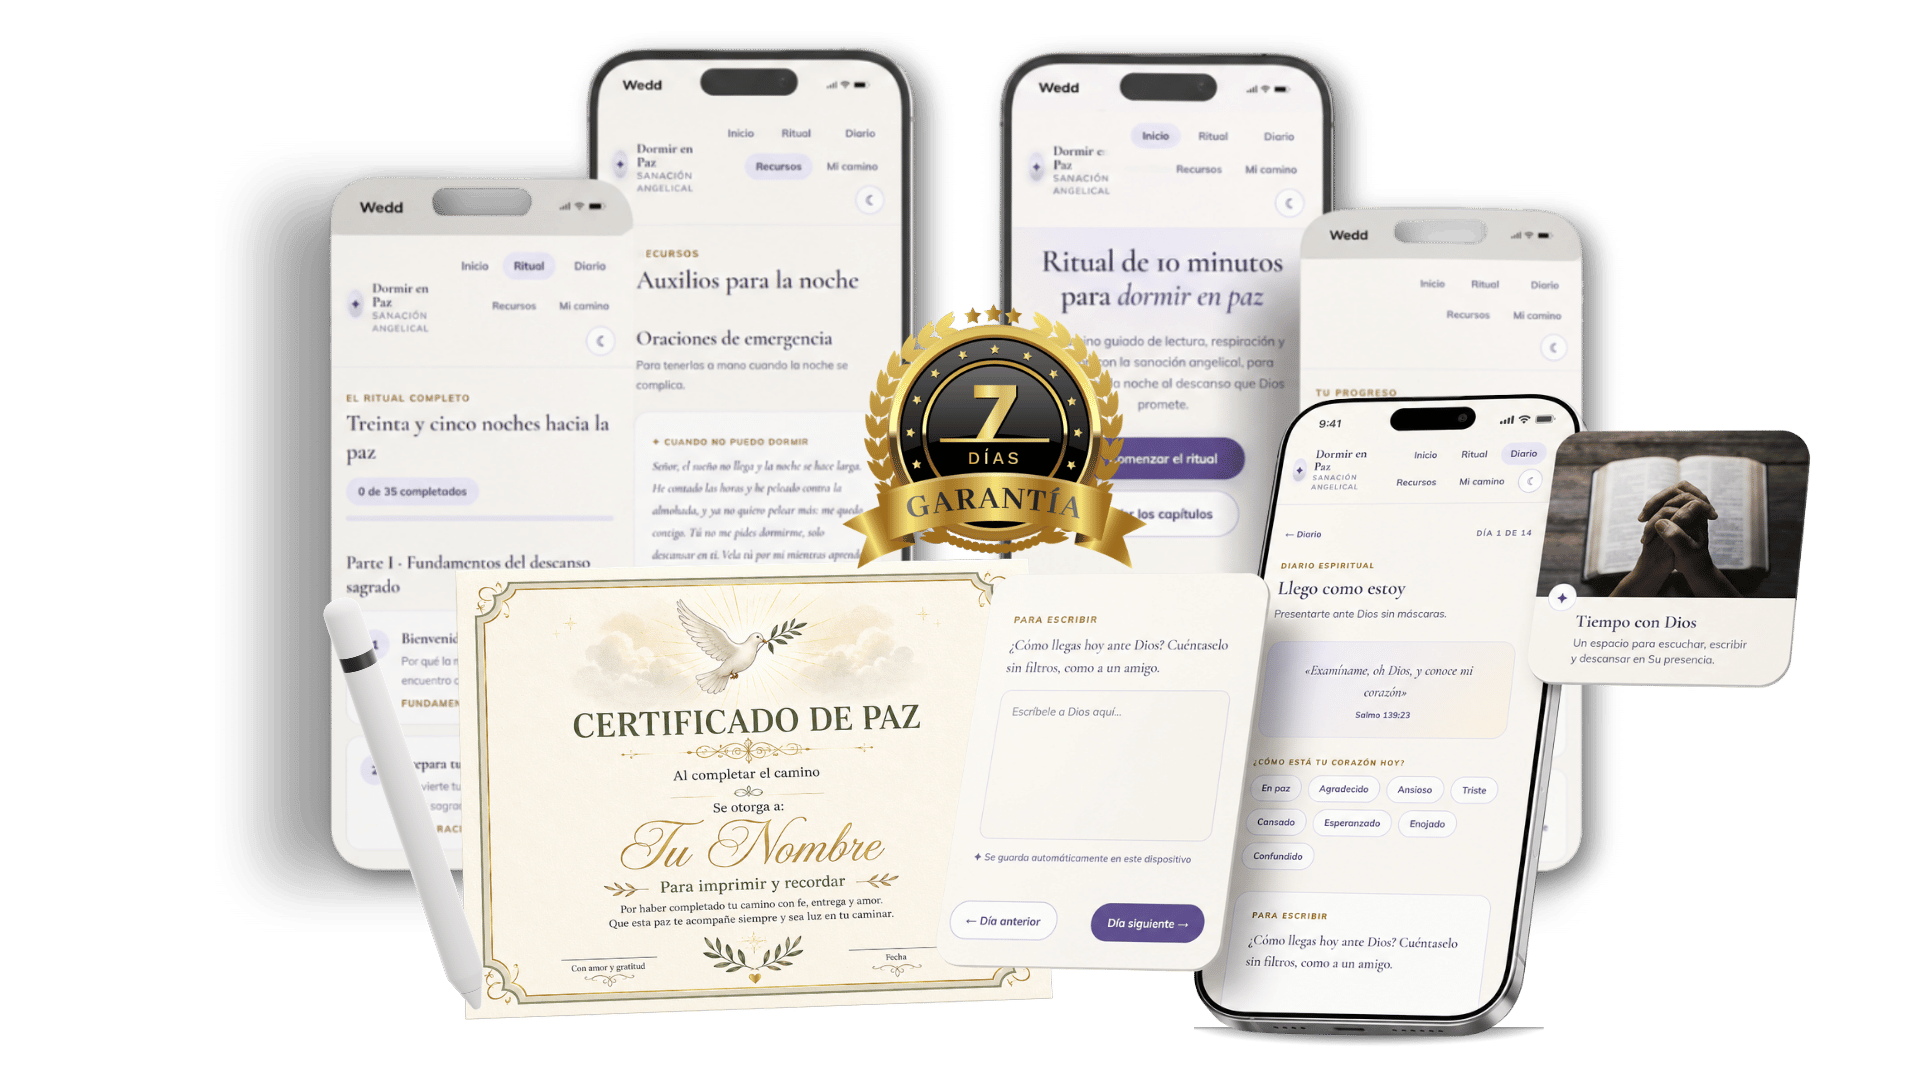
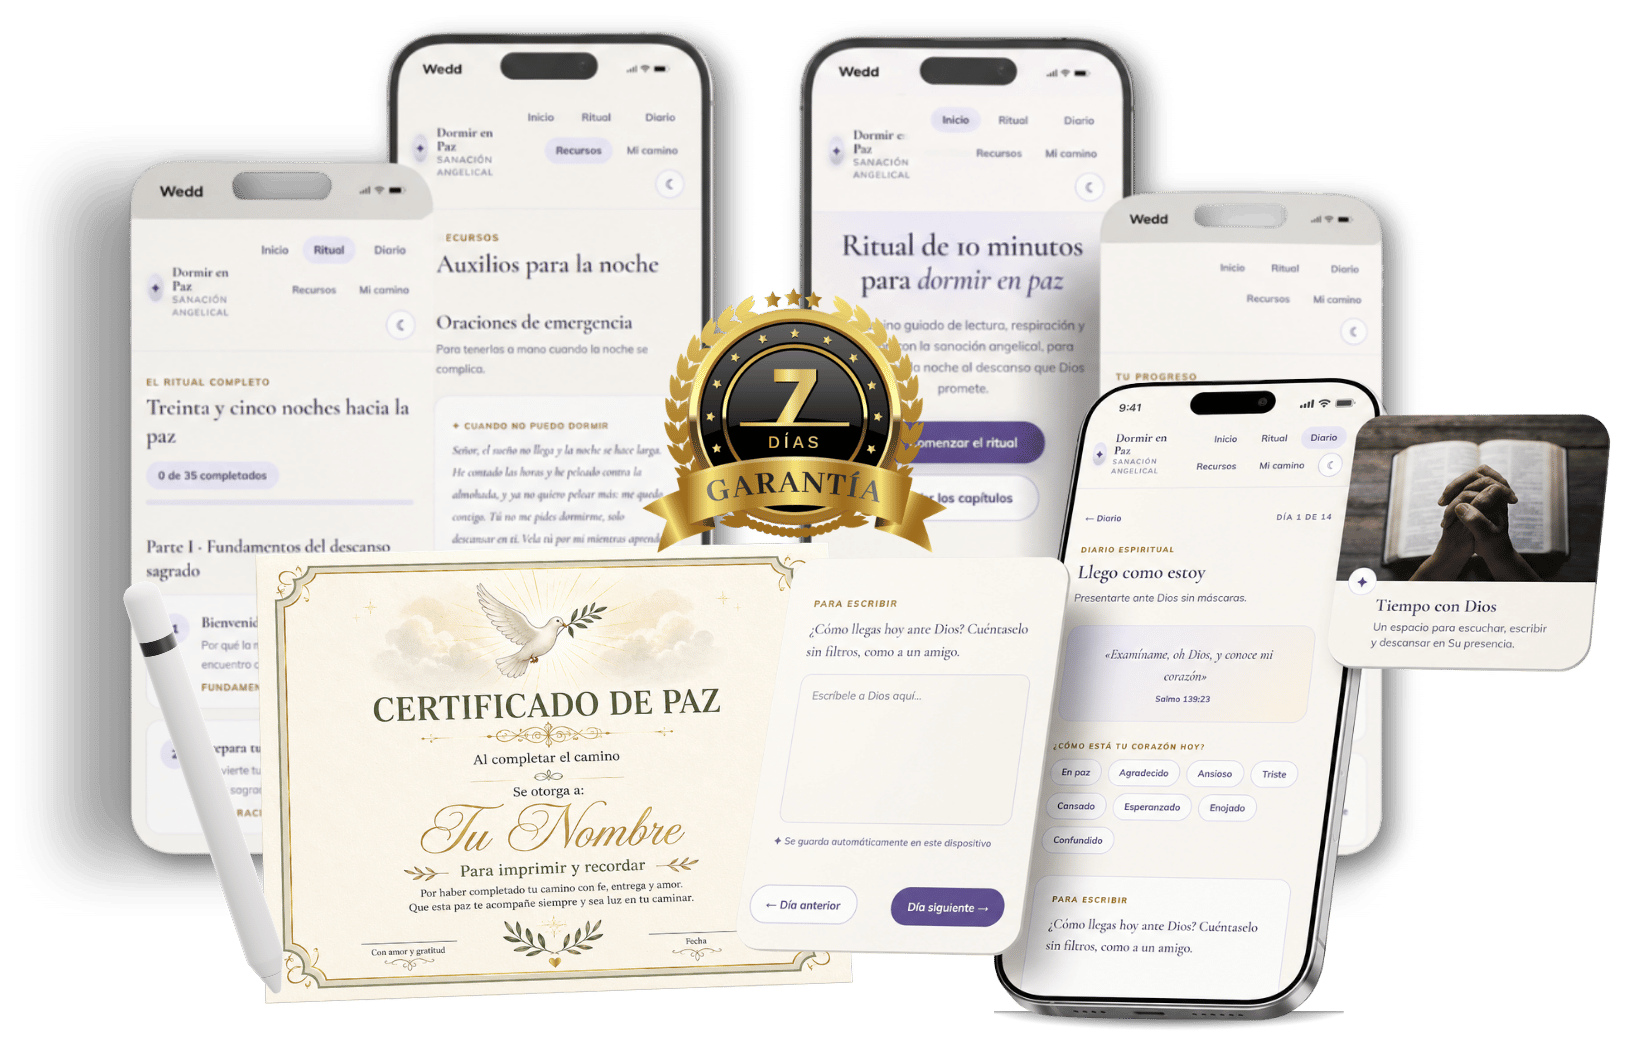
new

Changed region(s): [[0.0307, 0.0306, 1.0, 1.0]]

diff --git a/index.html b/index.html
@@ -29,7 +29,7 @@
       <div style="display: inline-flex; align-items: center; gap: 8px; padding: 8px 18px; border-radius: 999px; background: #FFFFFF; border: 1px solid oklch(0.9 0.03 295); font-size: 13px; font-weight: 800; letter-spacing: 0.1em; text-transform: uppercase; color: oklch(0.5 0.11 295);">✦ Precio de lanzamiento · solo por 7 días</div>
       <h1 style="margin: 0; font-family: 'Cormorant Garamond', serif; font-weight: 600; font-size: clamp(36px, 8vw, 56px); line-height: 1.1;">¿Cuántas noches llevas sin <em style="color: oklch(0.5 0.11 295);">dormir en paz</em>?</h1>
       <p style="margin: 0; max-width: 520px; font-size: 19px; line-height: 1.65; color: #55506E;">Un ritual guiado de solo <strong>10 minutos cada noche</strong> para entregarle a Dios tus preocupaciones y descansar bajo el cuidado de sus ángeles. Sin técnicas complicadas. Sin experiencia previa.</p>
-      <img src="images/mockup-2-pantallas.png" alt="Vista previa del eBook Dormir en Paz en el celular" style="width: 100%; max-width: 560px; height: auto; display: block;" />
+      <img src="images/mockup-2-pantallas.png" alt="Vista previa del eBook Dormir en Paz en el celular" style="width: 100%; height: auto; display: block;" />
       <div style="width: min(340px, 82vw); border-radius: 22px; overflow: hidden; box-shadow: 0 20px 50px oklch(0.6 0.08 295 / 0.35); border: 1px solid oklch(0.9 0.03 295);">
         <div style="background: linear-gradient(160deg, oklch(0.35 0.06 295), oklch(0.25 0.05 295)); padding: 38px 26px; display: flex; flex-direction: column; align-items: center; gap: 14px; text-align: center;">
           <span style="font-size: 26px; color: oklch(0.8 0.08 85);">✦</span>
@@ -80,7 +80,7 @@
 
   <!-- MOCKUP 4 PANTALLAS -->
   <section data-screen-label="Mockup incluye" style="max-width: 660px; margin: 0 auto; padding: 10px 22px 30px;">
-    <img src="images/mockup-4-pantallas-garantia.png" alt="Ritual, diario, certificado de paz y garantía de 7 días" style="width: 100%; height: auto; display: block;" />
+    <img src="images/mockup-4-pantallas-app.png" alt="Pantallas del eBook: ritual, recursos, inicio y tu camino" style="width: 100%; height: auto; display: block;" />
   </section>
 
   <!-- CÓMO FUNCIONA -->
@@ -125,7 +125,7 @@
     <div style="background: oklch(0.35 0.06 295); border-radius: 26px; padding: clamp(28px, 6vw, 44px); text-align: center; display: flex; flex-direction: column; align-items: center; gap: 16px; color: oklch(0.97 0.01 295);">
       <span style="font-size: 12px; font-weight: 800; letter-spacing: 0.18em; text-transform: uppercase; color: oklch(0.8 0.08 85);">✦ Oferta de lanzamiento</span>
       <h2 style="margin: 0; font-family: 'Cormorant Garamond', serif; font-weight: 600; font-size: clamp(28px, 6vw, 38px); line-height: 1.15;">Menos de lo que cuesta una pizza. Para todas las noches de tu vida.</h2>
-      <img src="images/mockup-4-pantallas-garantia.png" alt="Ritual, diario, certificado de paz y garantía de 7 días" style="width: 100%; max-width: 480px; height: auto; display: block;" />
+      <img src="images/mockup-4-pantallas-garantia.png" alt="Ritual, diario, certificado de paz y garantía de 7 días" style="width: 100%; height: auto; display: block;" />
       <div style="display: flex; align-items: baseline; gap: 12px;">
         <span style="font-size: 20px; font-weight: 700; color: oklch(0.7 0.04 295); text-decoration: line-through;">${{ precioAnterior }}</span>
         <span style="font-size: 52px; font-weight: 800; color: oklch(0.85 0.09 85);">${{ precio }}</span>